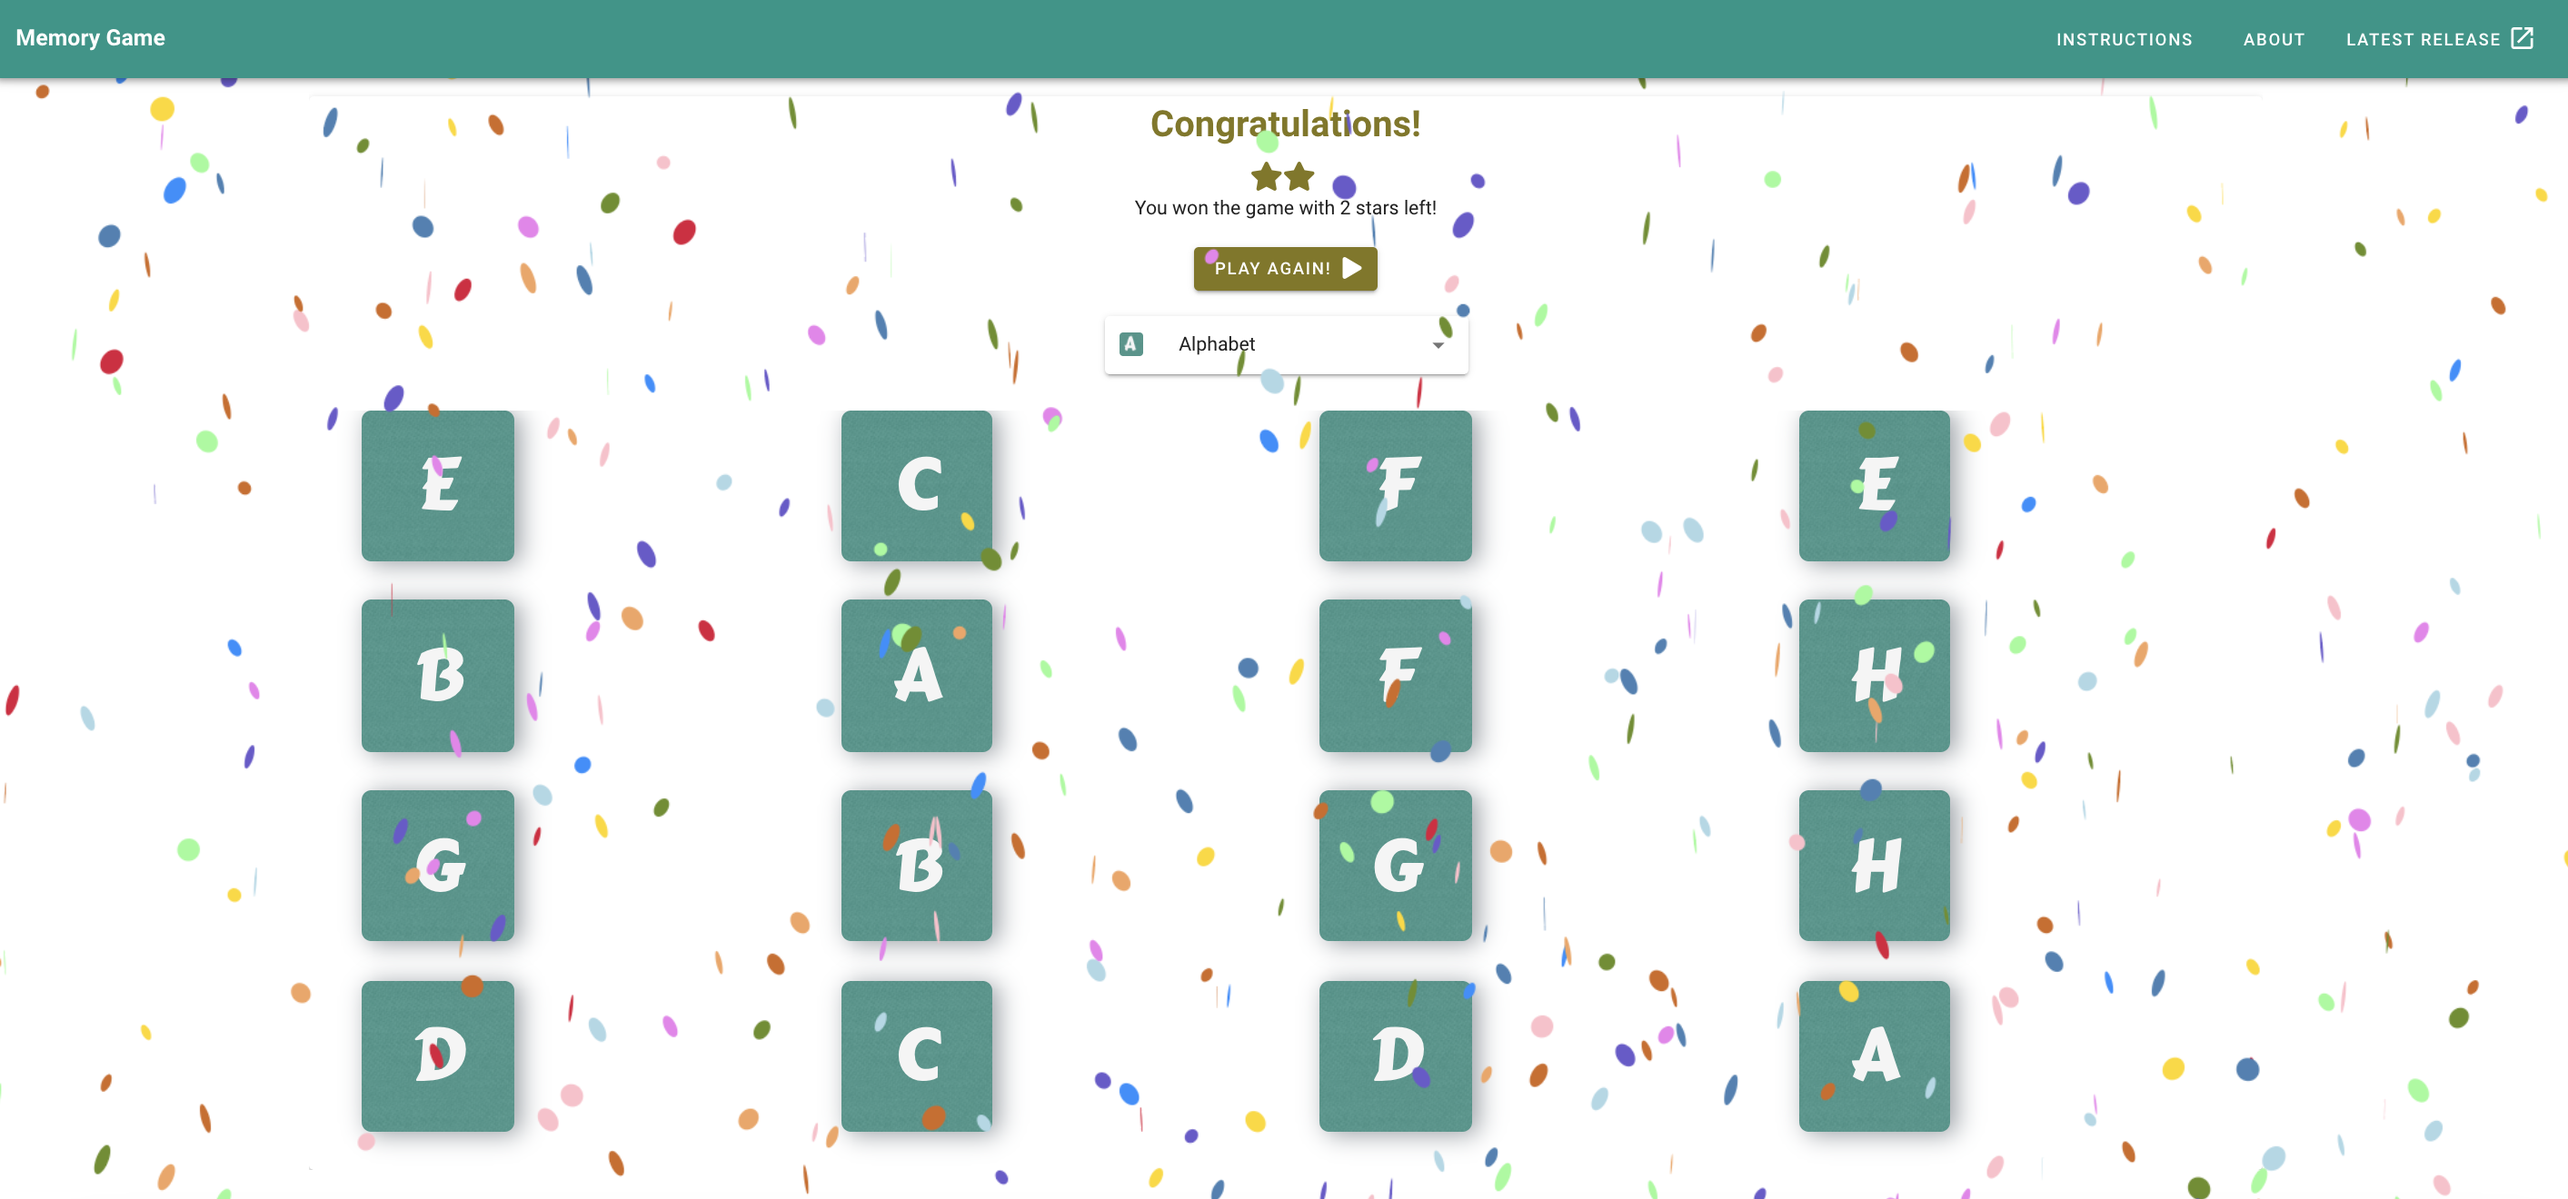
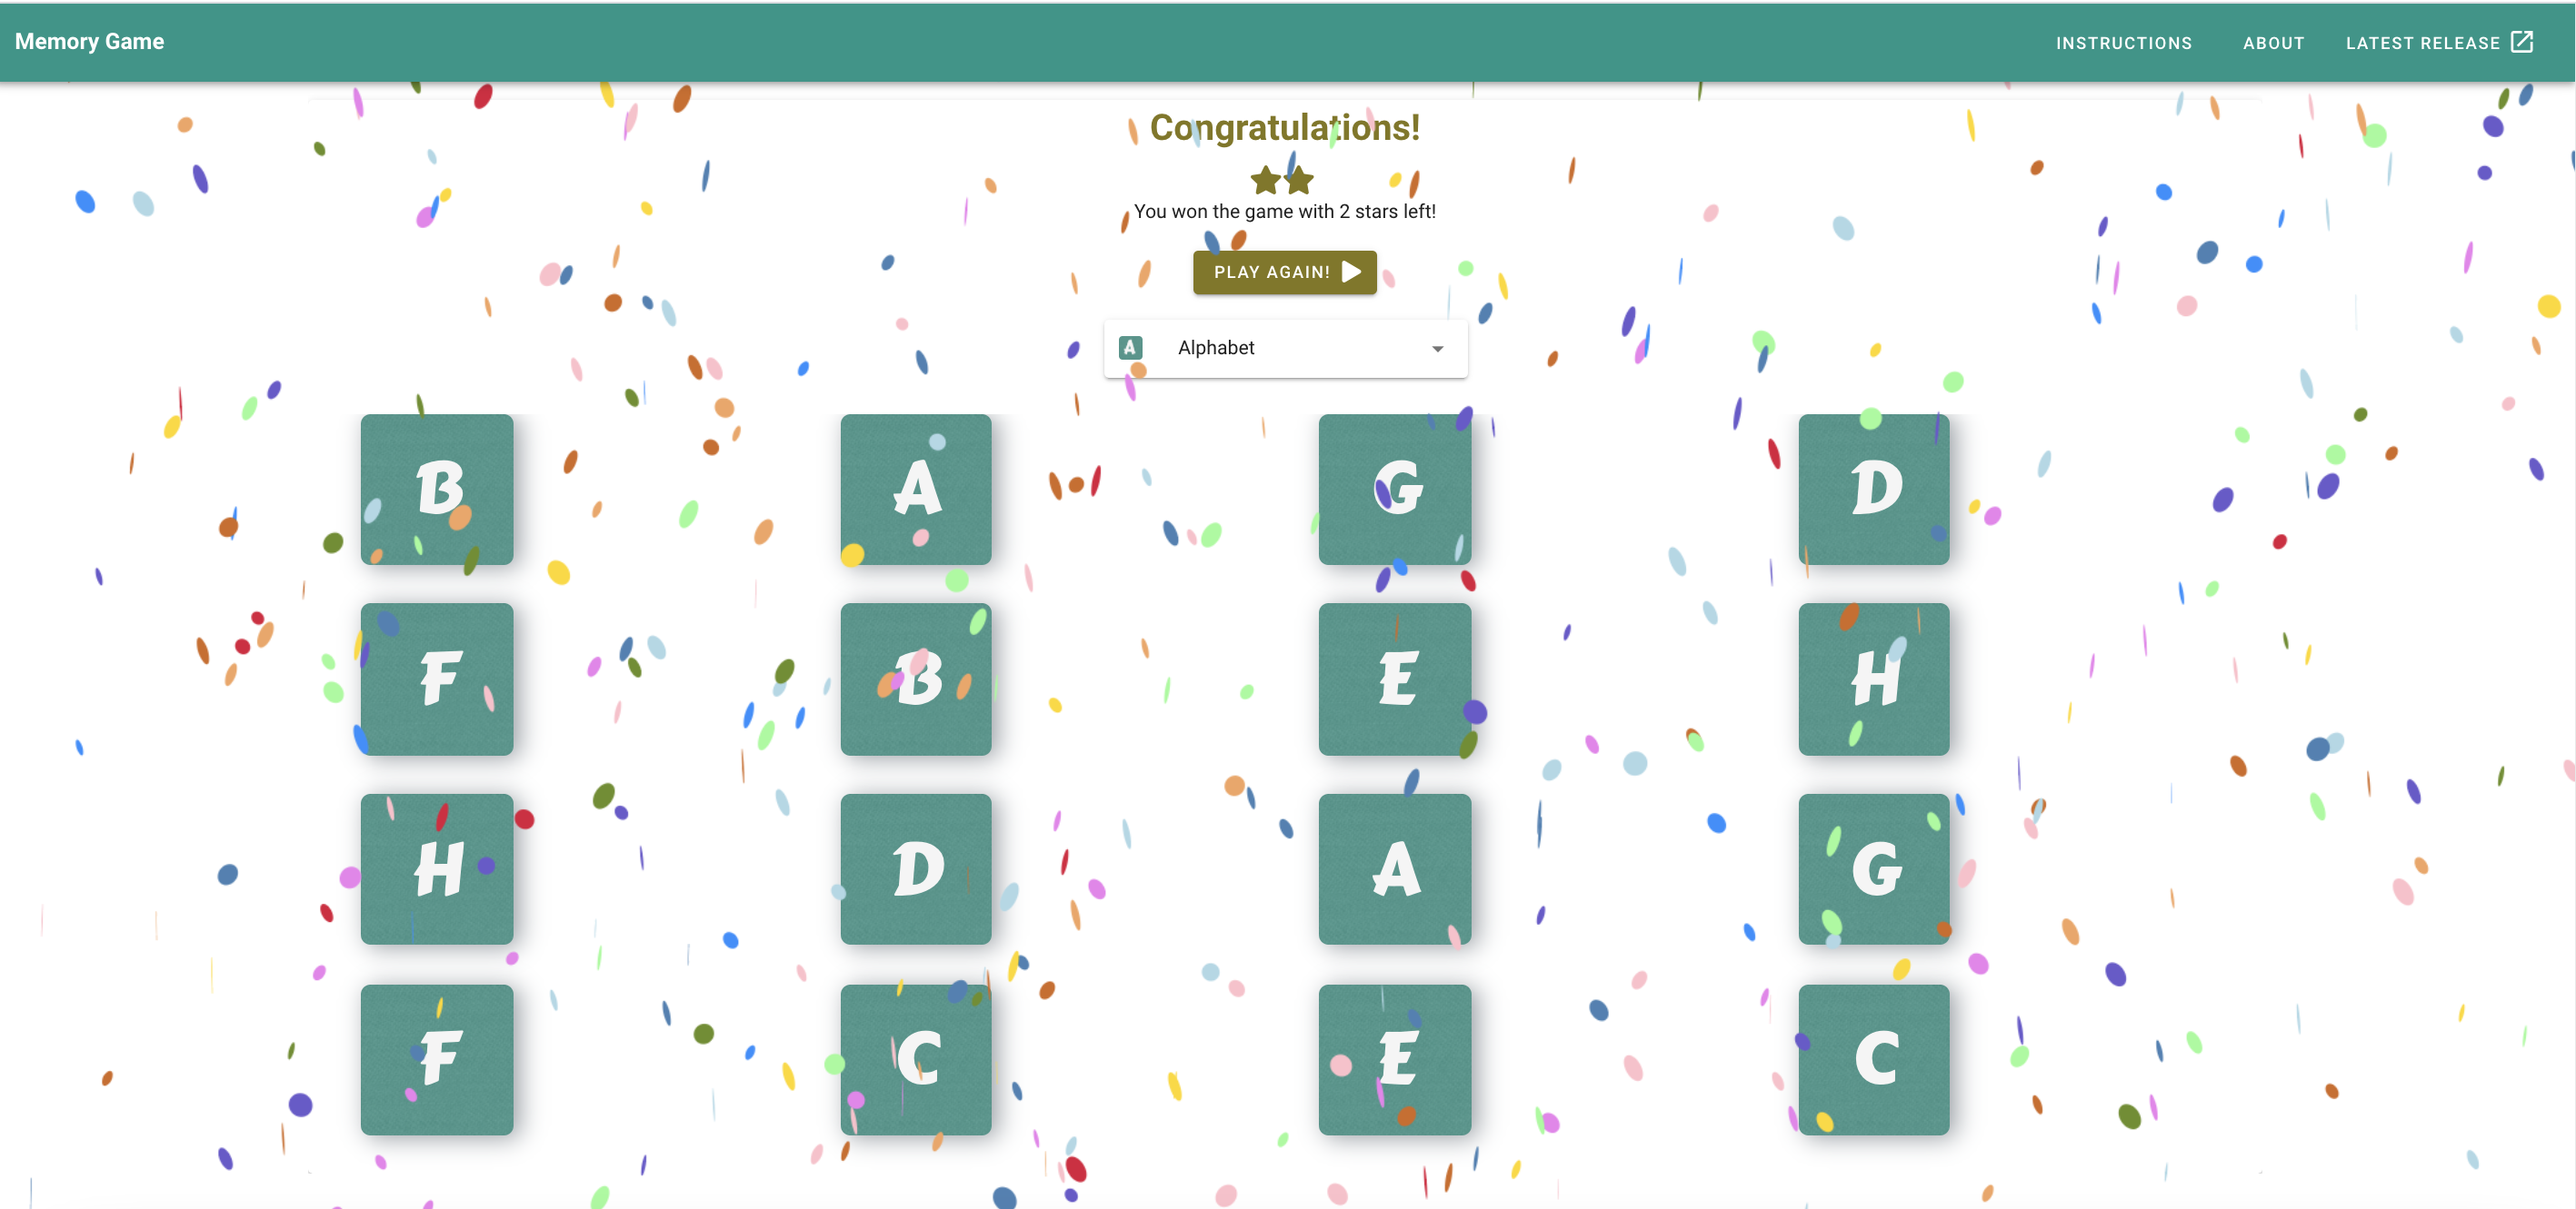
Improvements on the AboutResults and the AboutApplication. Improved the responsiveness on the documentation imagse

diff --git a/src/components/About/AboutApplication.vue b/src/components/About/AboutApplication.vue
@@ -92,11 +92,20 @@
 		</v-card-text>
 
 		<v-card-title>This game in action </v-card-title>
-		<v-card-text>
+		<v-card-text pb-0>
 			Here I leave some images of how the game actually looks like (in case you don't want to play to 
-			see it through). <br/><br/>
+			see it through).
 		</v-card-text>
-		
+		<v-card-subtitle mt-0 ml-0>Theme Selection</v-card-subtitle>
+		<v-card-text>
+			First of all, the application offers a dropdown list where the user user can choose the theme 
+			you want to play with. This selection list shows the name of the theme but also an icon. 
+			This was done thinking of the user experience. Particularly, my 5 year old son loves to play with it, 
+			and the icon helps him select the theme by himself.
+			<div class="theme-container">
+				<img :src="themeImage" class="theme-image" />
+			</div>
+		</v-card-text>
 		<v-carousel class="carousel-container">
 			<v-carousel-item
 				v-for="(result,i) in resultsContent"
@@ -121,58 +130,55 @@ export default {
 	},
 
 	computed: {
+		themeImage () {
+			return require("../../assets/img/results/theme-selection.png")
+		},
+
         resultsContent () {
-			const maxHeight = "2000"
 			return [
 				{
 					title: "Full Deck",
 					text: `When the user opens the application a full page is presented with a set of face-down cards
 						that look like this:`,
-					image: require("../../assets/img/results/full-deck.png"),
-					carouselHeight: maxHeight
-				},
-				{
-					title: "Theme selection",
-					text: `The application offers a dropdown selection where the user user can choose the theme 
-						you want to play with. 
-						This selection shows the name of the theme but also an icon. This was done thinking 
-						of the user experience. Particularly, my 5 year old son loves to play with it, and the 
-						icon helps him select the theme by himself.`,
-					image: require("../../assets/img/results/theme-selection.png"),
-					height: "500px",
-					width: "300px",
-					carouselHeight: "800px"
+					image: require("../../assets/img/results/full-deck.png")
 				},
 				{
 					title: "Default theme selection",
 					text: `By default the application selects the "Default" theme with several different icons to play with.
 						If the user plays with this one and wins, the application will look like this:`,
-					image: require("../../assets/img/results/default-win.png"),
-					carouselHeight: maxHeight
+					image: require("../../assets/img/results/default-win.png")
 				},
 				{
 					title: "Disney theme selection",
 					text: "If the user selects the Disney theme and wins, the application will look like this:",
-					image: require("../../assets/img/results/disney-win.png"),
-					carouselHeight: maxHeight
+					image: require("../../assets/img/results/disney-win.png")
 				},
 				{
 					title: "Harry Potter theme selection",
 					text: "If the user selects the Harry Potter theme and wins, the application will look like this:",
-					image: require("../../assets/img/results/harry-potter-win.png"),
-					carouselHeight: maxHeight
+					image: require("../../assets/img/results/harry-potter-win.png")
 				},
 				{
 					title: "Star Wars theme selection",
 					text: "If the user selects the Star Wars theme and wins, the application will look like this:",
-					image: require("../../assets/img/results/star-wars-win.png"),
-					carouselHeight: maxHeight
+					image: require("../../assets/img/results/star-wars-win.png")
+				},
+				{
+					title: "Vehicles theme selection",
+					text: "If the user selects the Vehicles theme and wins, the application will look like this:",
+					image: require("../../assets/img/results/vehicles-win.png")
+				},
+				{
+					title: "Alphabet theme selection",
+					text: "If the user selects the Alphabet theme and wins, the application will look like this:",
+					image: require("../../assets/img/results/alphabet-win.png")
 				}
 			]
 		}
 	}
 }
 </script>
+
 <style lang="scss" scoped>
 	.about-container {
 		& ul, li {
@@ -180,14 +186,25 @@ export default {
 		}
 	}
 
+	.theme-container {
+		display: flex;
+		justify-content: center;
+		width: 100%;
+	}
+
+	.theme-image {
+		height: 400px;
+		width: 300px;
+	}
+
 	.carousel-container {
 		max-width: 100vw;
-		height: 370px !important;
+		height: 300px !important;
 		margin: 0;
 		padding: 0;
 
 		@media screen and (min-width: 400px) {
-			height: 560px !important;
+			height: 580px !important;
 		}
 	}
 </style>

diff --git a/src/components/About/AboutResults.vue b/src/components/About/AboutResults.vue
@@ -3,8 +3,7 @@
 		<div class="result-title">{{ result.title }}</div>
 		<div class="result-text">{{ result.text }}</div>
 		<div class="result-image">
-			<img :src="result.image" :style="imageStyle" />
-			<!-- <img :src="result.image" /> -->
+			<img :src="result.image" />
 		</div>
 	</div>
 </template>
@@ -26,16 +25,6 @@ export default {
 		
 		imageWidth () {
 			return (this.result.width) ? this.result.width : "85%"
-		},
-
-		imageStyle () {
-			return {
-				width: this.imageWidth,
-				height: this.imageHeight,
-				"max-height": "550px",
-				"background-size": "cover",
-				"border-radius": "10px"
-			}
 		}
 	}
 }
@@ -71,23 +60,14 @@ export default {
 		flex-direction: row;
 		justify-content: center;
 		align-items: center;
-		// max-height: 500px;
-		// overflow: hidden;
 		margin: auto 0 auto 0;
-		
-		// > img {
-		// 	border-radius: 10px;
-		// 	width: 90%;
-		// 	height: 90%;
-		// 	object-fit: cover;
-		// 	// max-height: 250px;
-		// 	// max-width: 90%;
 
-		// 	// @media screen and (min-width: 400px) {
-		// 	// 	// height: 600px !important;
-		// 	// 	max-height: 700px;
-
-		// 	// }
-		// }
+		> img {
+			width: 85%;
+			height: 100%;
+			max-height: 550px;
+			background-size: cover;
+			border-radius: 10px;
+		}
 	}
 </style>
